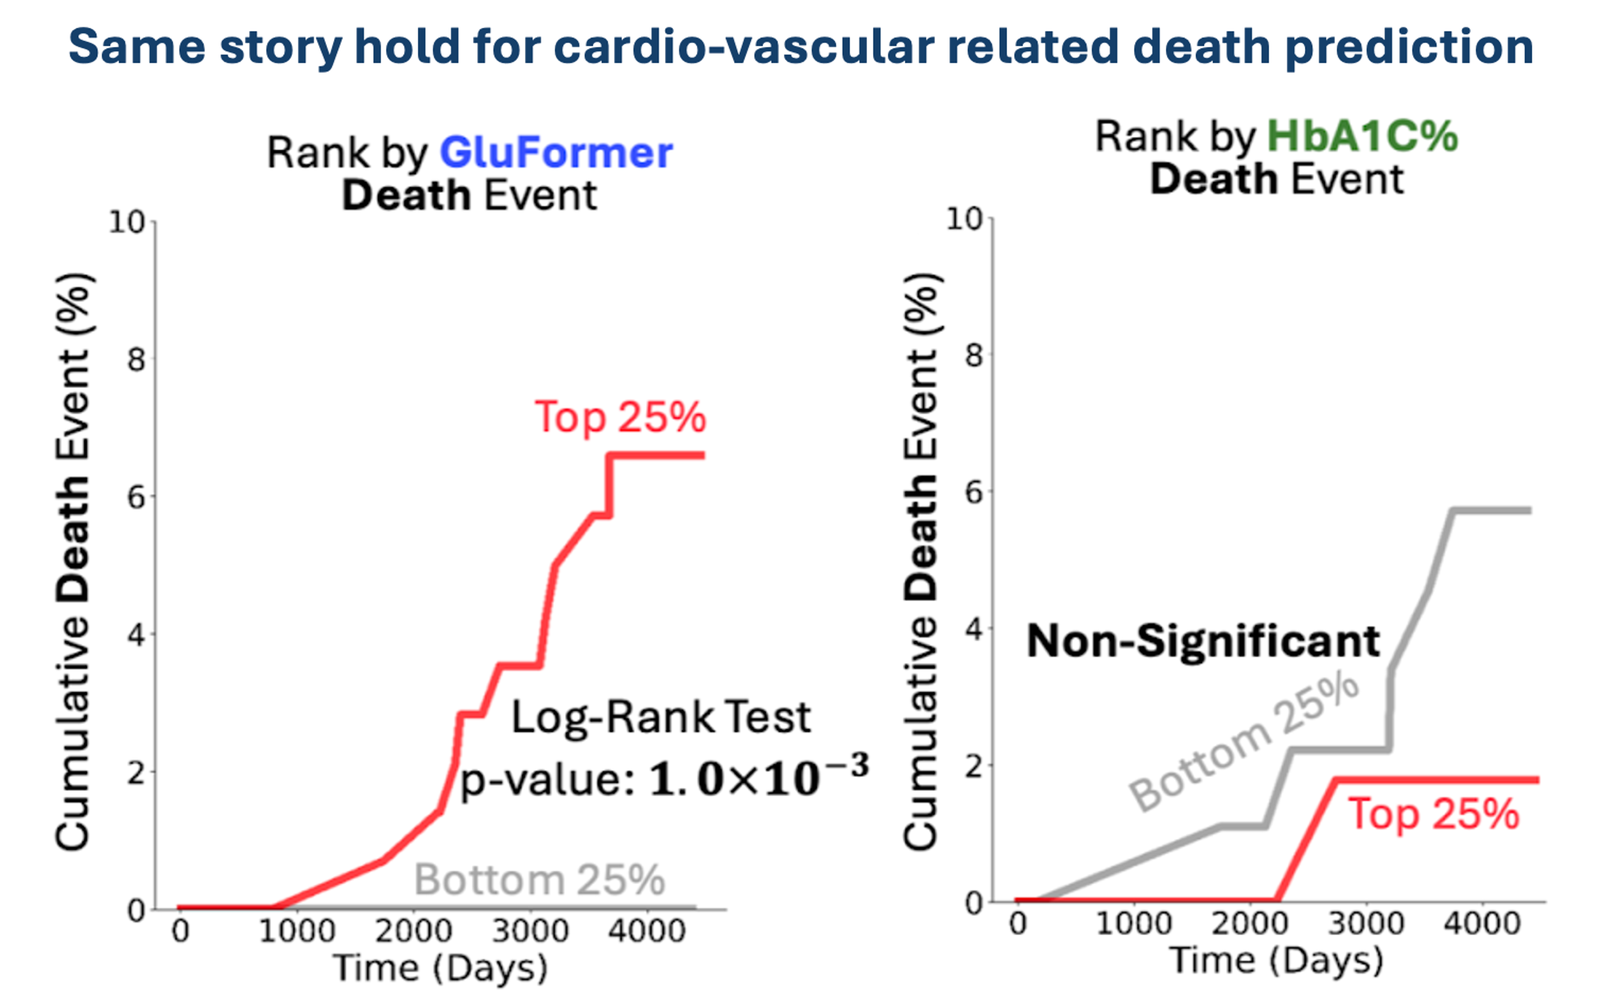
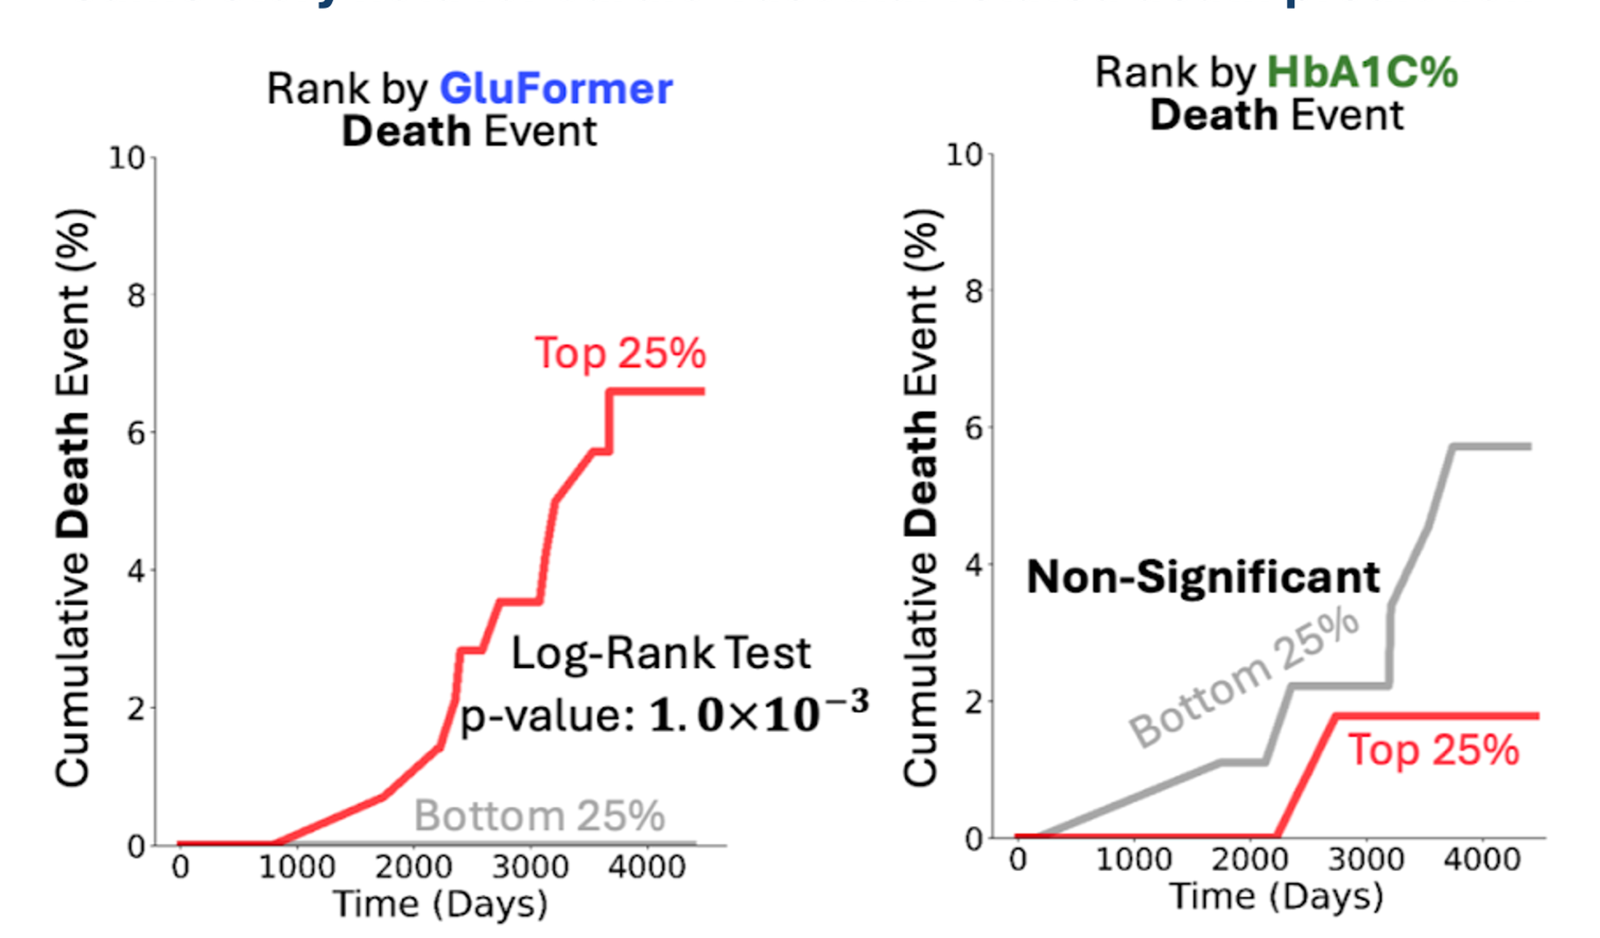
Phase 3: visual polish — figure crops, QR codes, meta tags, print/mobile
- Crop embedded slide-deck titles from figures 1,4,5,6,7,8,9
  (originals preserved in assets/figures/originals/)
- Generate QR codes (SVG) for Nature paper, GitHub repo, and poster URL
- Add Open Graph + Twitter Card meta tags with custom OG image
- Add favicon (ICO + PNG)
- Fix print layout: print-only fallback for interactive chart, QR sizing
- Add mobile responsive styles (hero stacking, smaller titles, QR grid)
- Remove unused MathJax CSS overrides

Changed region(s): [[0.0625, 0.1546, 0.9688, 0.9893], [0.0312, 0.0309, 0.9688, 0.2164], [0.0312, 0.1546, 0.0938, 0.8657]]

diff --git a/index.html b/index.html
@@ -3,8 +3,23 @@
   <head>
     <meta charset="utf-8">
     <title>GluFormer — A Foundation Model for Continuous Glucose Monitoring Data</title>
+    <meta name="description" content="GluFormer predicts diabetes and cardiovascular mortality up to 11 years ahead from just 14 days of glucose data. Published in Nature (2026).">
     <link rel="stylesheet" href="poster.css">
+    <link rel="icon" type="image/x-icon" href="favicon.ico">
+    <link rel="icon" type="image/png" sizes="64x64" href="assets/favicon.png">
     <meta name="viewport" content="height=device-height, width=device-width, initial-scale=1">
+
+    <!-- Open Graph / Social Sharing -->
+    <meta property="og:type" content="article">
+    <meta property="og:title" content="GluFormer — Predicts Diabetes 11 Years Ahead from Glucose Data">
+    <meta property="og:description" content="A foundation model trained on 10M+ glucose measurements outperforms HbA1c. 65.8% of future diabetes in top risk quartile. Nature 2026.">
+    <meta property="og:image" content="https://galsapir.github.io/gluformer-poster/assets/og-image.png">
+    <meta property="og:url" content="https://galsapir.github.io/gluformer-poster/">
+    <meta name="twitter:card" content="summary_large_image">
+    <meta name="twitter:title" content="GluFormer — Predicts Diabetes 11 Years Ahead from Glucose Data">
+    <meta name="twitter:description" content="A foundation model trained on 10M+ glucose measurements outperforms HbA1c. Published in Nature 2026.">
+    <meta name="twitter:image" content="https://galsapir.github.io/gluformer-poster/assets/og-image.png">
+
     <!-- Based on a poster template from https://github.com/cpitclaudel/academic-poster-template -->
 
     <script src="https://cdn.plot.ly/plotly-2.27.0.min.js" charset="utf-8"></script>
@@ -162,10 +177,11 @@
 
       <!-- ============== ZONE 5: Interactive + Takeaways ============== -->
 
-      <article>
+      <article class="interactive-panel">
         <header><h3>Real CGM Data: 48-Hour Glucose Trace</h3></header>
         <div id="glucose-explorer" style="width:100%; min-height:280px;"></div>
-        <p class="small">Real continuous glucose monitoring data from a study participant, with meal events overlaid. Hover for details.</p>
+        <p class="small screen-only">Real continuous glucose monitoring data from a study participant, with meal events overlaid. Hover for details.</p>
+        <p class="small print-only">Interactive glucose trace with meal events available at the poster URL. Scan the QR code to explore.</p>
       </article>
 
       <article class="takeaways">
@@ -178,9 +194,19 @@
           <li><strong>Precision nutrition</strong> — dietary tokens enable personalized glucose response predictions</li>
         </ul>
         <div class="qr-section">
-          <div class="qr-links">
-            <p><strong>Paper:</strong> <a href="https://www.nature.com/articles/s41586-025-09925-9">nature.com/articles/s41586-025-09925-9</a></p>
-            <p><strong>Code:</strong> <a href="https://github.com/Guylu/GluFormer">github.com/Guylu/GluFormer</a></p>
+          <div class="qr-grid">
+            <div class="qr-item">
+              <img src="assets/qr-paper.svg" alt="QR code to Nature paper" class="qr-img">
+              <span><strong>Paper</strong><br><a href="https://www.nature.com/articles/s41586-025-09925-9">Nature (2026)</a></span>
+            </div>
+            <div class="qr-item">
+              <img src="assets/qr-code.svg" alt="QR code to GitHub repo" class="qr-img">
+              <span><strong>Code</strong><br><a href="https://github.com/Guylu/GluFormer">GitHub</a></span>
+            </div>
+            <div class="qr-item">
+              <img src="assets/qr-poster.svg" alt="QR code to interactive poster" class="qr-img">
+              <span><strong>This Poster</strong><br><a href="https://galsapir.github.io/gluformer-poster/">Interactive</a></span>
+            </div>
           </div>
         </div>
       </article>

diff --git a/poster.css b/poster.css
@@ -200,6 +200,7 @@ body > header .publication-info {
 
   body > header {
     grid-template-columns: 1fr;
+    padding: 0.75rem 1rem;
   }
 
   body > header > aside {
@@ -210,6 +211,14 @@ body > header .publication-info {
     margin-bottom: 0.5rem;
   }
 
+  body > header h1 {
+    font-size: 1.15rem;
+  }
+
+  body > header h2 {
+    font-size: 0.8rem;
+  }
+
   main > * {
     margin: 0.5rem 1rem;
   }
@@ -217,6 +226,41 @@ body > header .publication-info {
   article {
     overflow-x: auto;
     overflow-y: hidden;
+  }
+
+  /* Hero panel stacks vertically on mobile */
+  article.hero-panel .hero-grid {
+    grid-template-columns: 1fr;
+  }
+
+  article.hero-panel .hero-stats {
+    grid-template-columns: 1fr 1fr;
+  }
+
+  .stat-card .stat-number {
+    font-size: 1.4rem;
+  }
+
+  /* Punchline smaller on mobile */
+  article.punchline p {
+    font-size: 0.9rem;
+  }
+
+  /* QR grid stacks to 2 columns on mobile */
+  .qr-grid {
+    grid-template-columns: repeat(2, 1fr);
+  }
+
+  .qr-img {
+    width: 4rem;
+    height: 4rem;
+  }
+
+  /* Footer stacks */
+  body > footer {
+    grid-auto-flow: row;
+    text-align: center;
+    gap: 0.25rem;
   }
 }
 
@@ -476,17 +520,36 @@ article ul > li::before {
   border-top: 1px solid var(--color-border);
 }
 
-.qr-links p {
-  font-size: 0.72rem;
-  margin: 0.15rem 0 !important;
+.qr-grid {
+  display: grid;
+  grid-template-columns: repeat(3, 1fr);
+  gap: 0.5rem;
+  text-align: center;
 }
 
-.qr-links a {
+.qr-item {
+  display: flex;
+  flex-direction: column;
+  align-items: center;
+  gap: 0.2rem;
+}
+
+.qr-item span {
+  font-size: 0.68rem;
+  line-height: 1.3;
+}
+
+.qr-img {
+  width: 5rem;
+  height: 5rem;
+}
+
+.qr-item a {
   color: var(--color-teal);
   font-weight: 500;
 }
 
-.qr-links a:hover {
+.qr-item a:hover {
   color: var(--color-primary);
 }
 
@@ -539,13 +602,8 @@ body > footer .credits {
   align-items: center;
 }
 
-/* ===== MathJax Overrides ===== */
-mjx-container,
-.MathJax_Display,
-.MathJax_Preview {
-  margin: 0 !important;
-  overflow-x: auto;
-  overflow-y: hidden;
+.print-only {
+  display: none;
 }
 
 /* ===== Plotly Chart Container ===== */
@@ -660,9 +718,37 @@ main::-webkit-scrollbar-thumb:hover {
     print-color-adjust: exact;
   }
 
-  /* Hide interactive elements in print */
+  /* Hide interactive elements in print, show print alternatives */
   #glucose-explorer {
     display: none;
+  }
+
+  .screen-only {
+    display: none !important;
+  }
+
+  .print-only {
+    display: block !important;
+  }
+
+  /* QR codes should print at readable size */
+  .qr-img {
+    width: 25mm;
+    height: 25mm;
+  }
+
+  .qr-grid {
+    gap: 4mm;
+  }
+
+  /* Takeaways panel spans 2 columns for print prominence */
+  article.takeaways {
+    grid-column: span 2;
+  }
+
+  /* Animations off in print */
+  article {
+    animation: none !important;
   }
 }
 
